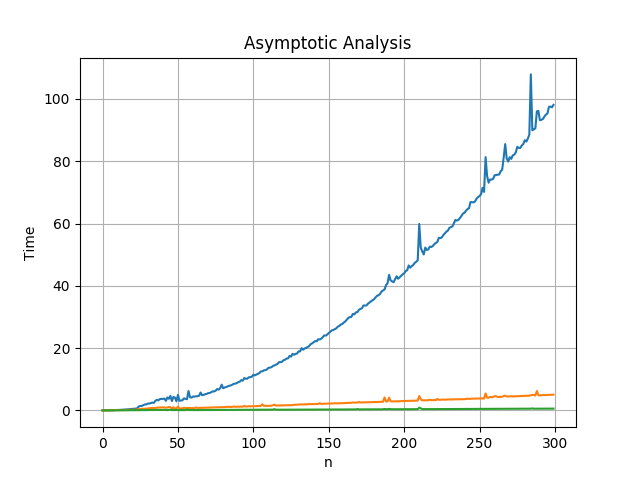
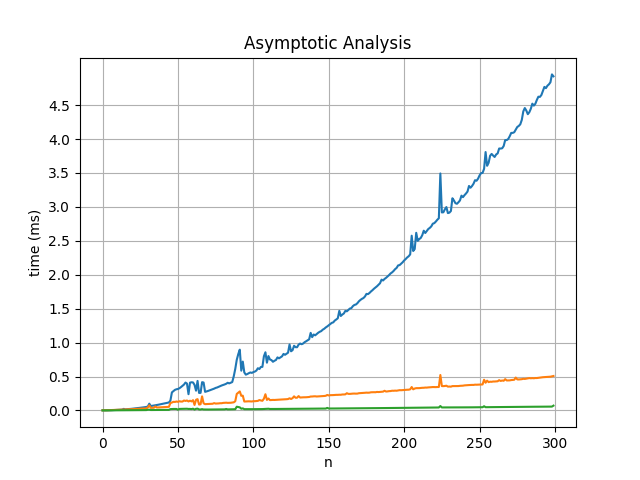
added legend and yticks to summed pair plot

diff --git a/FindSummedPairThatEqualsTarget/workingFindSummedPairThatEqualsTarget.py b/FindSummedPairThatEqualsTarget/workingFindSummedPairThatEqualsTarget.py
@@ -2,6 +2,7 @@
 # that equals the integer. If no pair exists return false otherwise false.
  
 import matplotlib.pyplot as plt
+import numpy as np
 import random, time
 
 POPULATION = 2000
@@ -24,9 +25,11 @@ def main():
 
     x_quad, y_quad, x_log, y_log, x_linear, y_linear = ([] for x in range(6))
 
+
+    # find a better way to record time... and store x,y coordinates
+    sequence = [random.randint(0, POPULATION)]
+    # sequence = random.sample(range(POPULATION), n)
     for n in range(SAMPLE):
-        sequence = random.sample(range(POPULATION), n)
-        sequence.sort()
 
         quadIn = time.time()
         quadraticSolution(sequence, target)
@@ -41,13 +44,16 @@ def main():
         linearOut = time.time() - linearIn
 
         x_quad.append(n)
-        y_quad.append(quadOut*10**4) # to provide y axis with some meaningful values
+        y_quad.append(quadOut*10**3) # y axis into microiseconds
         x_log.append(n)
-        y_log.append(logOut*10**4)
+        y_log.append(logOut*10**3) 
         x_linear.append(n)
-        y_linear.append(linearOut*10**4)
+        y_linear.append(linearOut*10**3)
+
+        sequence.append(random.randint(0, POPULATION))
 
     # print("Quadratic Time: ", quadOut)
+        sequence.sort()
     # print("n*log(n) Time: ", logOut)
     # print("Linear Time: ", linearOut)
     fig, ax = plt.subplots()
@@ -55,13 +61,16 @@ def main():
     # ax.plot((0, POPULATION), (0, quadOut*1000))
     # ax.plot((0, POPULATION), (0, logOut*1000))
     # ax.plot((0, POPULATION), (0, linearOut*1000))
-    ax.plot(x_quad, y_quad)
-    ax.plot(x_log, y_log)
-    ax.plot(x_linear, y_linear)
+    ax.plot(x_quad, y_quad, label="quadratic")
+    ax.plot(x_log, y_log, label="n*log(n)")
+    ax.plot(x_linear, y_linear, label="linear")
 
-    ax.set(xlabel="n", ylabel="Time", title="Asymptotic Analysis")
+    plt.yticks(np.arange(0, y_quad[-1], step=0.5))
+
+    ax.set(xlabel="n", ylabel="time (ms)", title="Asymptotic Analysis")
     ax.grid()
     fig.savefig("timeComplexityAnalysis.png")
+    plt.legend()
     plt.show()
     print("\n")
 

diff --git a/FindSummedPairThatEqualsTarget/findSummedPairThatEqualsTarget.py b/FindSummedPairThatEqualsTarget/findSummedPairThatEqualsTarget.py
@@ -2,6 +2,7 @@
 # that equals the integer. If no pair exists return false otherwise false.
  
 import matplotlib.pyplot as plt
+import numpy as np
 import random, time
 
 POPULATION = 2000
@@ -35,11 +36,11 @@ def main():
         linearOut = time.time() - linearIn
 
         x_quad.append(n)
-        y_quad.append(quadOut*10**4) # to provide y axis with some meaningful values
+        y_quad.append(quadOut*10**3) # y axis to milliseconds
         x_log.append(n)
-        y_log.append(logOut*10**4)
+        y_log.append(logOut*10**3)
         x_linear.append(n)
-        y_linear.append(linearOut*10**4)
+        y_linear.append(linearOut*10**3)
 
     fig, ax = plt.subplots()
 
@@ -47,7 +48,9 @@ def main():
     ax.plot(x_log, y_log)
     ax.plot(x_linear, y_linear)
 
-    ax.set(xlabel="n", ylabel="Time", title="Asymptotic Analysis")
+    plt.yticks(np.arange(0, y_quad[-1], step=0.5))
+    ax.set(xlabel="n", ylabel="time (ms)", title="Asymptotic Analysis")
+
     ax.grid()
     fig.savefig("timeComplexityAnalysis.png")
     plt.show()
